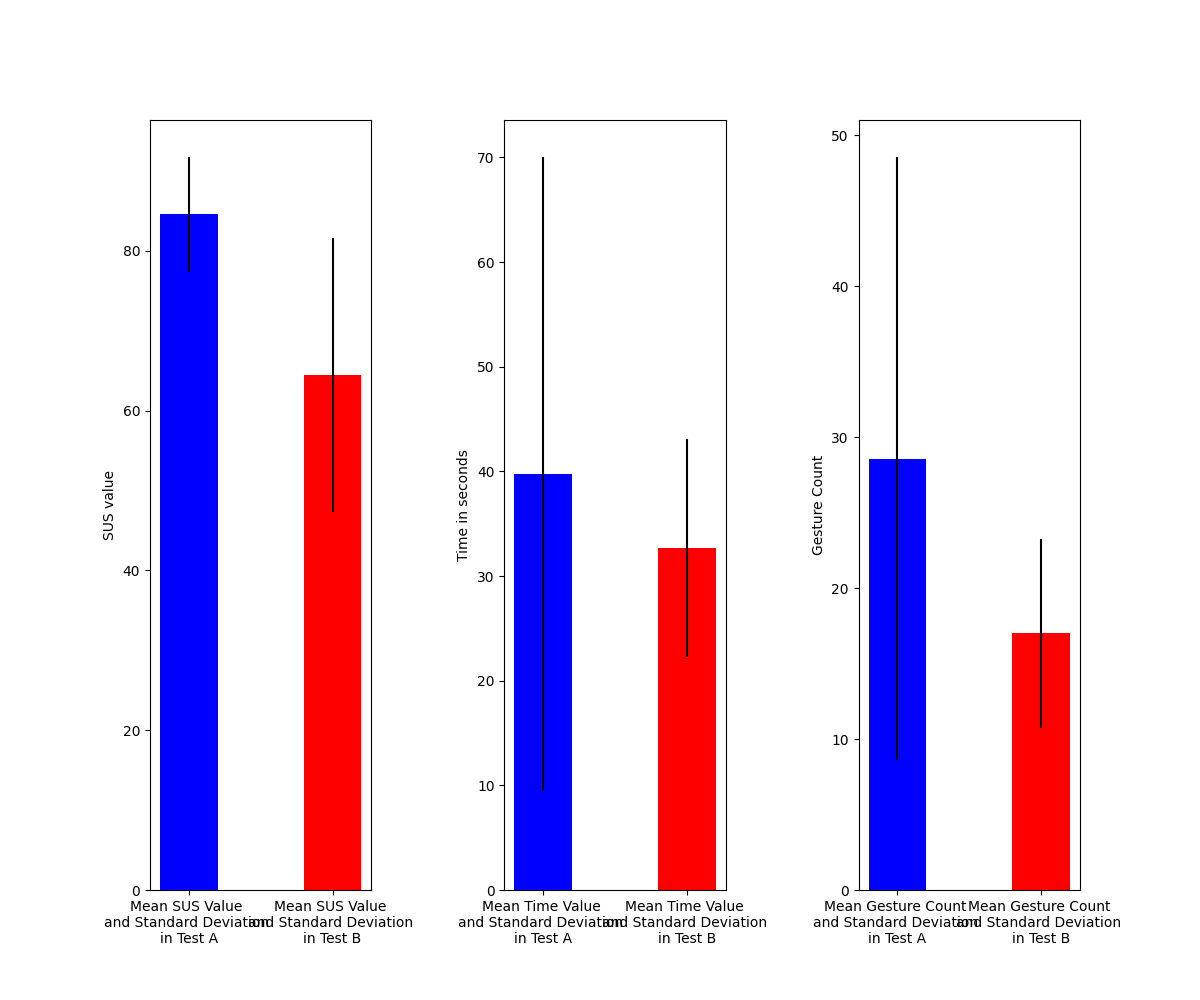
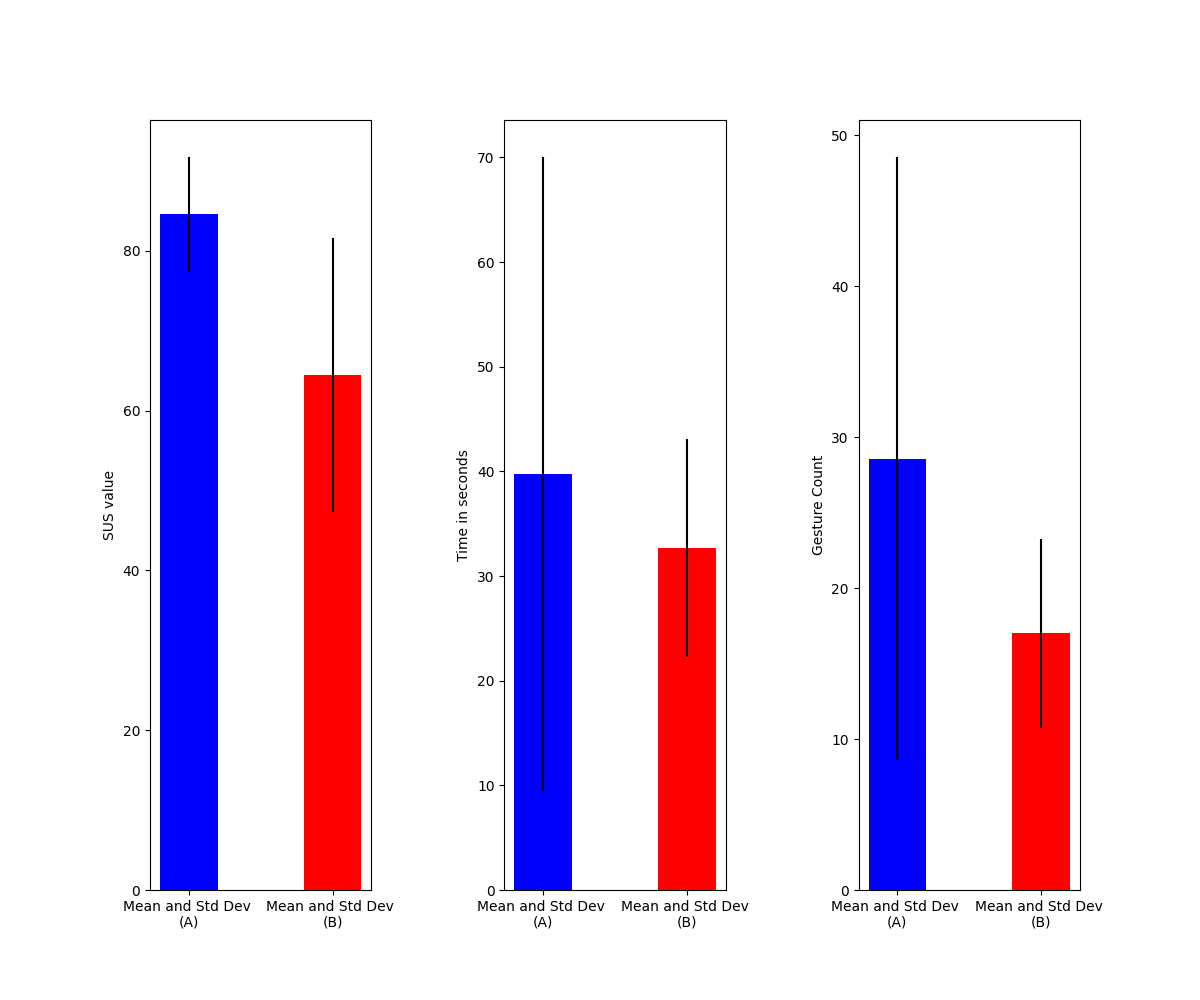
update

Changed region(s): [[0.37, 0.899, 0.6475, 0.961], [0.0925, 0.899, 0.3392, 0.961], [0.6783, 0.899, 0.925, 0.961]]

diff --git a/code/study_analysis/data_analysis.py b/code/study_analysis/data_analysis.py
@@ -265,13 +265,13 @@ stddev_gesture_counts = [std_gesture_count_value_a, std_gesture_count_value_b]
 
 fig2, ax2 = plt.subplots(1, 3, figsize=(12, 10))
 plt.subplots_adjust(wspace=0.6, hspace=0.4)
-ax2[0].bar(['Mean SUS Value \nand Standard Deviation \nin Test A', 'Mean SUS Value \nand Standard Deviation \nin Test B'], mean_sus, yerr=stddev_sus, color=['blue', 'red'], width=0.4)
+ax2[0].bar(['Mean and Std Dev \n(A)', 'Mean and Std Dev \n(B)'], mean_sus, yerr=stddev_sus, color=['blue', 'red'], width=0.4)
 ax2[0].set_ylabel('SUS value')
 
-ax2[1].bar(['Mean Time Value \nand Standard Deviation \nin Test A', 'Mean Time Value \nand Standard Deviation \nin Test B'], mean_times, yerr=stddev_time, color=['blue', 'red'], width=0.4)
+ax2[1].bar(['Mean and Std Dev \n(A)', 'Mean and Std Dev \n(B)'], mean_times, yerr=stddev_time, color=['blue', 'red'], width=0.4)
 ax2[1].set_ylabel('Time in seconds')
 
-ax2[2].bar(['Mean Gesture Count \nand Standard Deviation \nin Test A', 'Mean Gesture Count \nand Standard Deviation \nin Test B'], mean_gesture_counts, yerr=stddev_gesture_counts, color=['blue', 'red'], width=0.4)
+ax2[2].bar(['Mean and Std Dev \n(A)', 'Mean and Std Dev \n(B)'], mean_gesture_counts, yerr=stddev_gesture_counts, color=['blue', 'red'], width=0.4)
 ax2[2].set_ylabel('Gesture Count')
 plt.savefig(path_to_analysis + '/all_means_plots.png')
 plt.close()
@@ -393,5 +393,5 @@ with open(path_to_analysis + '/results.md', 'w') as file:
     
     
     
-    html_img_txt = '<img src="all_means_plots.png" alt="All Means" width="600"/>'
+    html_img_txt = '<img src="all_means_plots.png" alt="All Means" width="400"/>'
     file.write(html_img_txt + '\n\n')

diff --git a/code/study_analysis/results.md b/code/study_analysis/results.md
@@ -110,5 +110,5 @@ Average gesture_count_a: 28.583 and standard deviation: 20.002
 
 Average gesture_count_b: 17.0 and standard deviation: 6.252
 
-<img src="all_means_plots.png" alt="All Means" width="500"/>
+<img src="all_means_plots.png" alt="All Means" width="400"/>
 
